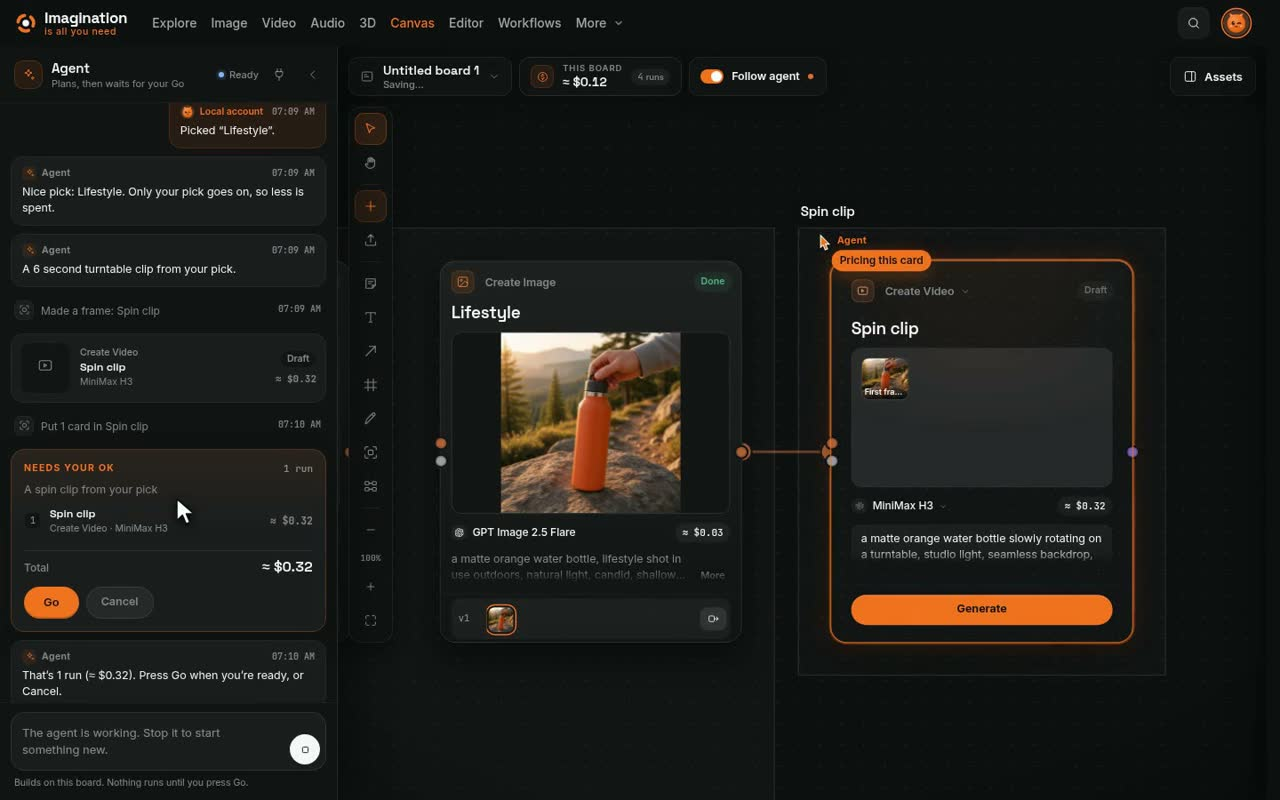
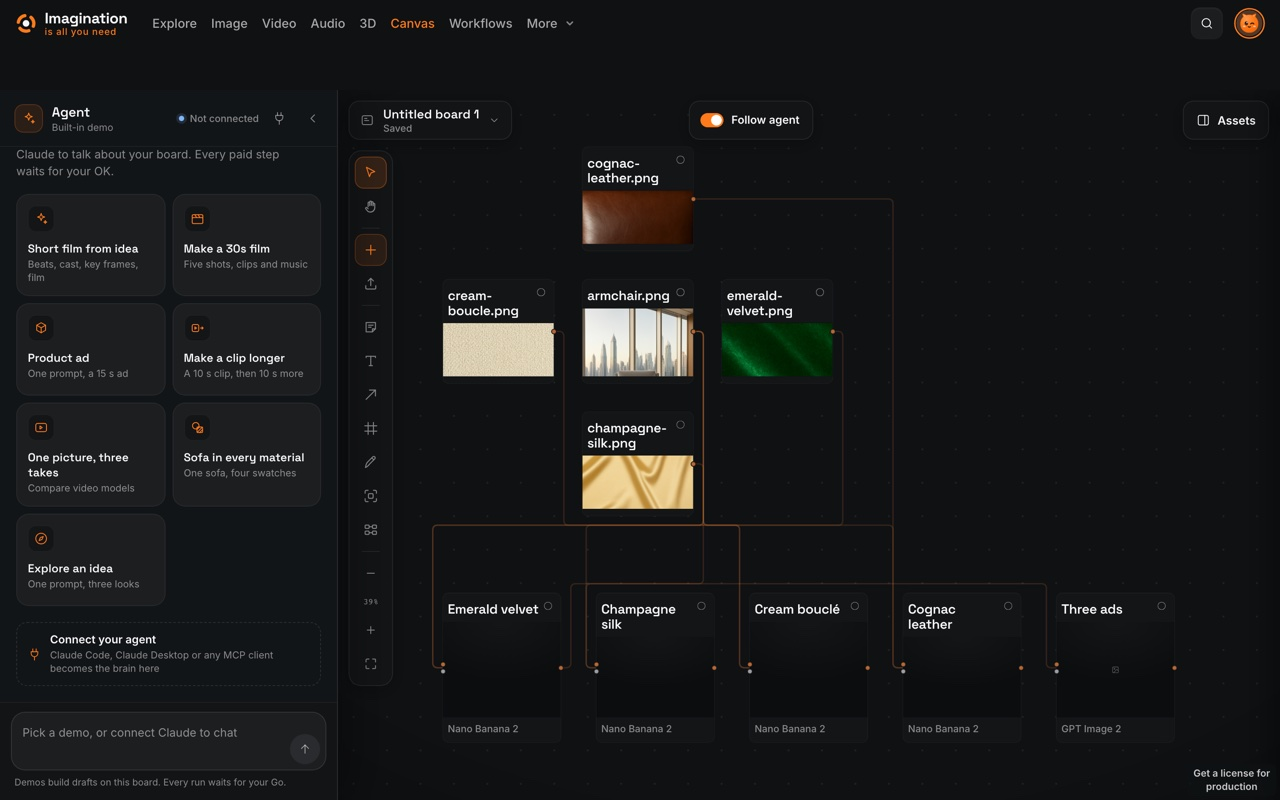
Canvas screenshot: a chair chained into four Material Swaps and an ad pack

diff --git a/site/public/index.html b/site/public/index.html
@@ -253,7 +253,7 @@
     </article>
 
     <article class="spread">
-      <div class="spread-media"><img src="/media/canvas.jpg" alt="A Canvas board with cards for pictures and a video run" width="1280" height="800" loading="lazy" decoding="async" class="top-crop"></div>
+      <div class="spread-media"><img src="/media/canvas.jpg" alt="A Canvas board: one chair photo and four fabric swatches feed four Material Swap cards and a three-ad card" width="1280" height="800" loading="lazy" decoding="async" class="top-crop"></div>
       <div class="spread-text">
         <span class="kicker">06 · Canvas</span>
         <h3>Think in ideas, run in Comfy.</h3>

diff --git a/README.md b/README.md
@@ -37,7 +37,7 @@ Want to see it run? Connect your ComfyUI or a Comfy key in **Settings → Connec
 <table align="center">
   <tr>
     <td width="50%"><img src="docs/screenshots/run-on.webp" alt="The Video tab with the Run on menu open for LTX-2.5 22B: free on your computer, or about $0.23 on Comfy Cloud"><br><sub>Run on: pick the place, see the price first</sub></td>
-    <td width="50%"><img src="site/public/media/canvas.jpg" alt="A Canvas board: the agent has priced a video card at about $0.32 and waits for Go"><br><sub>Canvas: a priced plan that waits for Go</sub></td>
+    <td width="50%"><img src="site/public/media/canvas.jpg" alt="A Canvas board: one chair photo and four fabric swatches feed four Material Swap cards and a three-ad card"><br><sub>Canvas: whole workflows chained card to card</sub></td>
   </tr>
   <tr>
     <td width="50%"><img src="docs/screenshots/workflows.webp" alt="The Workflows tab listing ready-made workflows by goal"><br><sub>Workflows: every way to start, in one place</sub></td>
